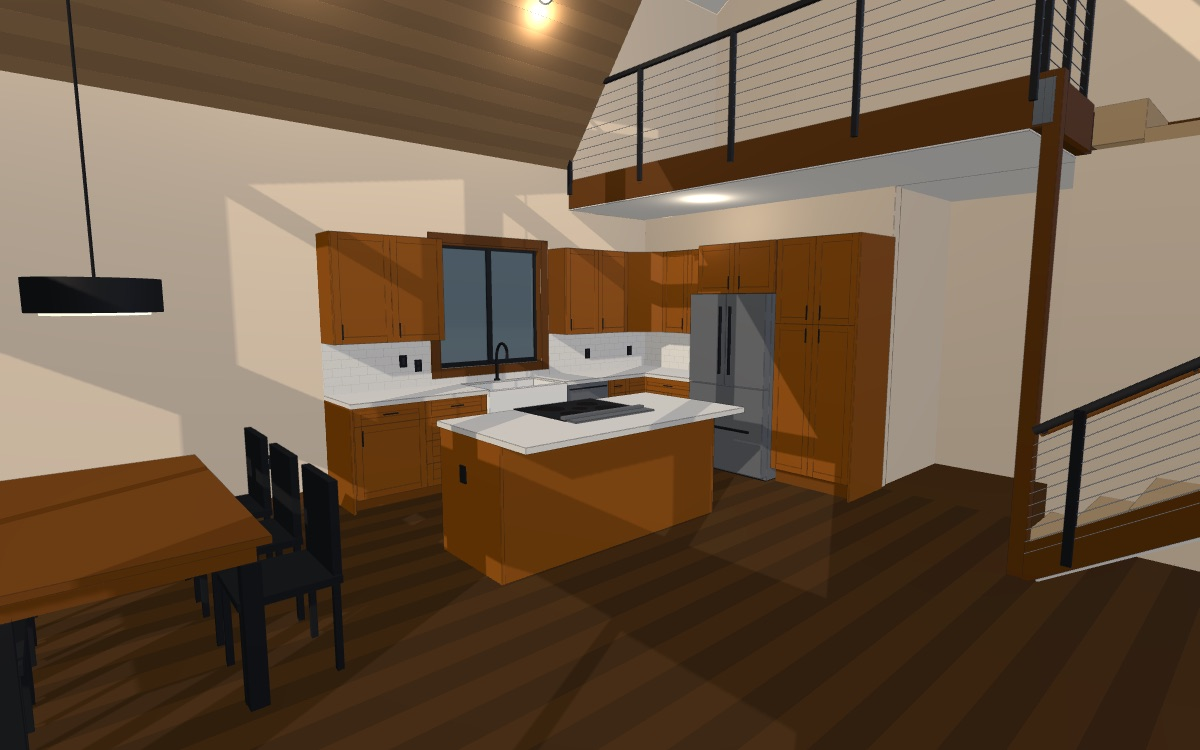
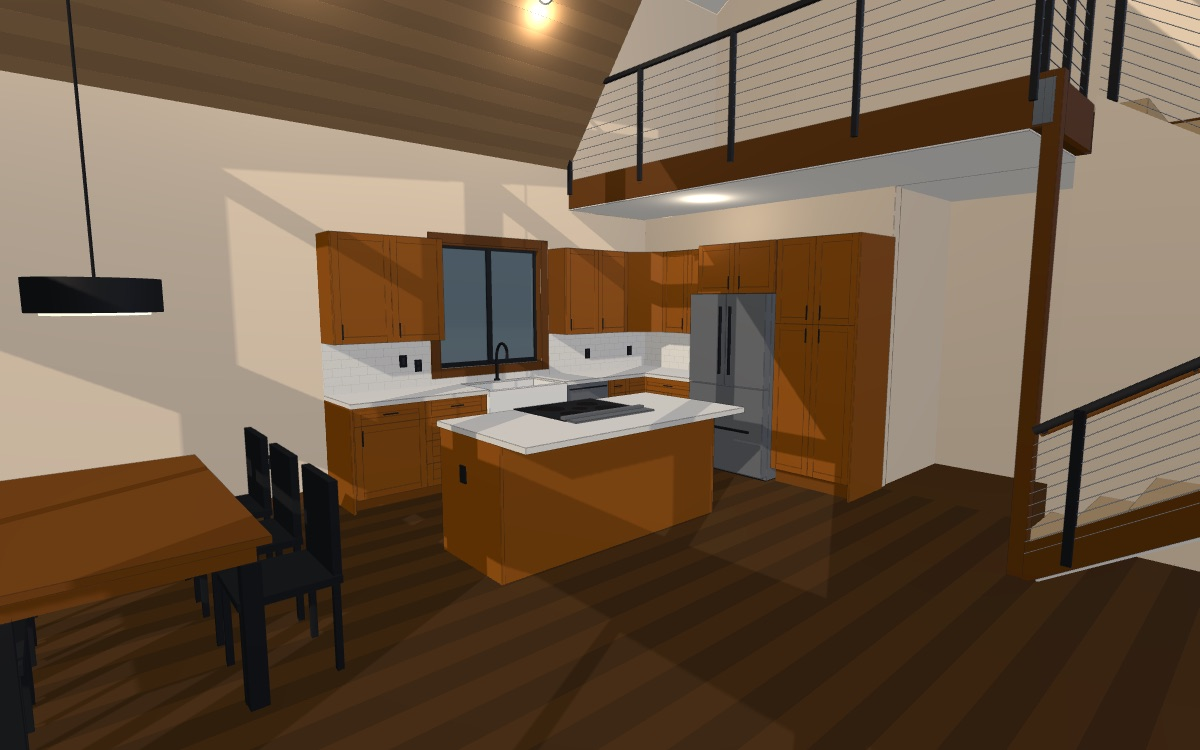
fix: window heads on one header, gable triangles full width, stair divider as built; gable-trim review toggle in the kitchen

diff --git a/kitchen.html b/kitchen.html
@@ -61,7 +61,7 @@
   <a class="panel" id="home" href="https://tredfield.github.io/138-tahoma-cabin/" title="Back to the list of drawings">&larr; All drawings</a>
   <div class="panel" id="header">
     <h1>Kitchen + great room (lower floor) &mdash; interior 3D</h1>
-    <div class="sub">Lower-floor <b>KITCHEN</b> on the east wall north of the guest bath, open to the double-height <b>LIVING ROOM</b>: 12'-10 3/4" counter run under window D and a 6'-8" x 3'-6" island with 3'-6" min aisles. Orange = field-verify or TBD. Design record: <code>wiki/construction/kitchen-and-great-room.md</code>. Not engineered &mdash; do not build from this. Drag to orbit &middot; scroll to zoom &middot; right-drag to pan &middot; <b>arrow keys (or WASD) walk</b>, PageUp/PageDown change eye height, Shift runs.</div>
+    <div class="sub">Lower-floor <b>KITCHEN</b> on the east wall north of the guest bath, open to the double-height <b>LIVING ROOM</b>: 12'-10 3/4" counter run under window D and a 6'-8" x 3'-6" island with 3'-6" min aisles. <b>Gable trim</b> compares two trim readings on the window wall. Orange = field-verify or TBD. Design record: <code>wiki/construction/kitchen-and-great-room.md</code>. Not engineered &mdash; do not build from this. Drag to orbit &middot; scroll to zoom &middot; right-drag to pan &middot; <b>arrow keys (or WASD) walk</b>, PageUp/PageDown change eye height, Shift runs.</div>
   </div>
   <div class="panel" id="legend">
     <h2>Legend</h2>
@@ -103,6 +103,11 @@
       <label><input type="checkbox" data-layer="dim"> Dimensions</label>
       <label><input type="checkbox" data-layer="caption"> Caption</label>
     </div>
+    <div class="row fold" id="variants">
+      <span class="lbl">Gable trim</span>
+      <label><input type="radio" name="gabletrim" data-layer="trimN1" checked> Per window, as drawn</label>
+      <label><input type="radio" name="gabletrim" data-layer="trimN2"> One board per gap</label>
+    </div>
     <div class="row" id="views">
       <span class="lbl">View</span>
       <button data-view="kitchen" class="on">Kitchen</button>
@@ -110,6 +115,7 @@
       <button data-view="sink">Sink wall</button>
       <button data-view="fridge">Fridge wall</button>
       <button data-view="north">Window wall</button>
+      <button data-view="northtrim">Gable trim</button>
       <button data-view="stove">Stove</button>
       <button data-view="lounge">From lounge</button>
       <button data-view="stair">Stair</button>
@@ -2096,7 +2102,7 @@ function tileZY(z1, z2, y1, y2, x1, x2, layer) {          // tile field on the s
 }
 tileXY(-48, D.WD_X1 - D.CAS_R, D.CTR_Y, D.UP_LO, D.E_GYP - .4, D.E_GYP, 'tile');
 tileXY(D.WD_X2 + D.CAS_R, D.ER_X2, D.CTR_Y, D.UP_LO, D.E_GYP - .4, D.E_GYP, 'tile');
-tileXY(D.WD_X1 - D.CAS_R, D.WD_X2 + D.CAS_R, D.CTR_Y, D.WD_Y1 - 1, D.E_GYP - .4, D.E_GYP, 'tile');
+tileXY(D.WD_X1 - D.CAS_R, D.WD_X2 + D.CAS_R, D.CTR_Y, D.WD_Y1 + .25 - D.CAS_W, D.E_GYP - .4, D.E_GYP, 'tile');   // stops on the sill casing's bottom edge (casing audit 2026-09-17: it used to run 2 1/4" up behind the casing)
 tileZY(D.SR_Z1, D.E_GYP - .4, D.CTR_Y, D.UP_LO, D.S_FACE, D.S_FACE + .4, 'tile');
 
 // ---- fridge: KitchenAid KRSC536RPS french-door counter-depth (35 1/2 x 69 1/4 x 28 3/8) -------------------------
@@ -2213,10 +2219,10 @@ slopedBoxZ(D.HALL_X1, 0, -150, -D.GLB_W / 2, yd, D.DORM_SLOPE, .75, M.gypC, 'lou
   // geometry on the exported `lounge` layer. What the sheets do settle is the arithmetic: 16 risers at
   // 7 1/2", 11" treads, a 3'-0" landing, 3'-0" minimum clear width, keynotes 0560 and 1040.
   //
-  // Geometry is the loft drawing's, transcribed rather than re-derived (same x and z, y + 120). The
-  // framed rail in the owner's field photographs of 2026-09-16 is the framer's TEMPORARY construction
-  // rail -- 2x4s nailed flat over the tread ends, a loose bottom plate and a scrap panel leaning on it
-  // -- so it says nothing about the finished guard, which stays the sheets' cable rail.
+  // Geometry is the loft drawing's, transcribed rather than re-derived (same x and z, y + 120). The framed
+  // low wall in the owner's field photographs of 2026-09-16 is NOT a temporary rail (that reading was wrong):
+  // it is the stair divider built as a stub wall for the metal guard, drawn below. The open side of flight 1
+  // toward the great room keeps the sheets' fascia-mounted 0560 cable rail; his photographs show no wall there.
   //
   // Interpretations, not sheet-settled: the 1 1/16" tread over a 3/4" closed riser with a 1" nosing, the
   // 10" outer stringer on the open side, and the drywall soffit under flight 1 (the alternative is an
@@ -2275,12 +2281,20 @@ slopedBoxZ(D.HALL_X1, 0, -150, -D.GLB_W / 2, yd, D.DORM_SLOPE, .75, M.gypC, 'lou
       bar(V(G, D.LAND_Y + RH - 1 - 3 * c, D.LAND_Z), V(G, D.LAND_Y + RH - 1 - 3 * c, -148), .1, M.steel, 'lounge');
     }
   }
-  // Stair south wall / utility east wall. It used to run the full z -150 .. -27 at full height, which put a
-  // wall straight through the landing: you turn from flight 1 to flight 2 across this line, so nothing can
-  // stand on it there. Full height alongside flight 1, and only up to the landing's underside beneath the
-  // landing itself, which is also how the loft drawing draws its stair divider (it stops at z -114).
-  box(D.UT_X1, D.UT_X2, 0, D.LNG_LO, D.LAND_Z, -27, M.gyp, 'lounge', false);
+  // Stair divider between the flights (utility east wall). FIELD CONDITION (owner photographs 2026-09-16, confirmed
+  // 2026-09-17): the framers built it as a LOW wall -- top plate two 2x4s, about 3" above the step edges of the
+  // upper flight (flight 2) -- for the metal guard to land on, in place of the fascia-mounted 0560 rail the sheets
+  // call. It used to be drawn 9'-0" tall along flight 1. Nothing stands on the landing line (you turn across it);
+  // under the landing it is a 50" wall as before. The 3" is the owner's estimate from his photographs: orange tag.
+  const yn2 = z => D.LAND_Y + (z - D.LAND_Z) * (D.RISE / D.TREAD);   // flight-2 nosing line: 60 at the landing, 120 at the well line
+  prismZY([[D.LAND_Z, 0], [-27, 0], [-27, yn2(-27) + 3], [D.LAND_Z, D.LAND_Y + 3]], D.UT_X1, D.UT_X2, M.gyp, 'lounge', [], false);
   box(D.UT_X1, D.UT_X2, 0, D.LAND_Y - 10, D.W_GYP, D.LAND_Z, M.gyp, 'lounge', false);
+  { // 0560 cable guard ON the divider: posts stand on the wall top, rail 36" over the flight-2 nosings
+    const DX = (D.UT_X1 + D.UT_X2) / 2, RH = 36;
+    for (const z of [-30, -58, -86, -112]) box(DX - 1, DX + 1, yn2(z) + 3, yn2(z) + RH, z - 1, z + 1, M.black, 'lounge');
+    bar(V(DX, yn2(-27) + RH - .5, -27), V(DX, yn2(D.LAND_Z) + RH - .5, D.LAND_Z), 1, M.black, 'lounge');
+    for (let k = 1; k <= 10; k++) bar(V(DX, yn2(-27) + RH - 1 - 3 * k, -27), V(DX, yn2(D.LAND_Z) + RH - 1 - 3 * k, D.LAND_Z), .1, M.steel, 'lounge');
+  }
   box(D.HALL_X1, D.UT_X1, 0, D.LNG_LO, -27, D.HALL_Z1, M.gyp, 'lounge', false);                   // utility wall along the hall
   box(D.HALL_X1, D.S_BACK, 0, D.LNG_LO, D.HALL_Z2, D.HALL_Z2 + 4.5, M.gyp, 'lounge', false);       // guest-bath wall along the hall; stops at the partition's south face -- run to S_FACE its end face shared the partition's room-side plane and the two z-fought in renders (phase 2 critic finding 1)
   // Boundary shell under the loft floor, added 2026-09-11 (phase 1b). Without it the kitchen and island
@@ -2318,25 +2332,37 @@ slopedBoxZ(D.HALL_X1, 0, -150, -D.GLB_W / 2, yd, D.DORM_SLOPE, .75, M.gypC, 'lou
   for (const s of [1, -1]) {
     J.push([s * 4, s * 50, 102, 158], [s * 54.5, s * 100.5, 102, 158], [s * 4, s * 50, 161, 217]);
   }
-  const K = [[[54.5, 161], [97, 161], [54.5, 219]], [[-54.5, 161], [-97, 161], [-54.5, 219]]];
-  const N = [[[4, 223], [46.5, 223], [4, 281]], [[-4, 223], [-46.5, 223], [-4, 281]]];
-  const XW = [[103.9, 140.4, 35.5, 84], [-140.4, -103.9, 35.5, 84]];   // AS BUILT windows flanking the sliders (owner tape 2026-09-02; rear-deck spec item 13)
+  // K and N triangles: the FULL WIDTH of the J below (46") with the hypotenuse on the roof slope (14.7/12), so the
+  // apex is 46 x 1.225 = 56.35 above the base. A03's north elevation draws them this way (K leg at 54.1, hypotenuse
+  // 1.22, outer corner over the J's edge) and the owner confirmed the field matches (2026-09-17). A04's schedule gives
+  // 3'-6 1/2" x 4'-10" for K, N, O and P alike, which is what this drawing carried until then; the sheets disagree
+  // with each other and the field settles it. One tape of a base and a leg is still owed.
+  const K = [[[54.5, 161], [100.5, 161], [54.5, 217.35]], [[-54.5, 161], [-100.5, 161], [-54.5, 217.35]]];
+  const N = [[[4, 223], [50, 223], [4, 279.35]], [[-4, 223], [-50, 223], [-4, 279.35]]];
+  // AS BUILT windows flanking the sliders: RO 36 1/2" x 48 1/2" (owner tape 2026-09-02); head on the SLIDER HEADER at
+  // 84 1/2" -- one continuous LVL over doors and windows per S4.3, owner confirmed 2026-09-17 -- so the sill is 36"
+  // (the tape read 35 1/2", inside its tolerance; a re-tape is owed and the drawing flags it).
+  const XW = [[103.9, 140.4, 36, 84.5], [-140.4, -103.9, 36, 84.5]];
   const norm = r => [Math.min(r[0], r[1]), Math.max(r[0], r[1]), r[2], r[3]];
   const holes = J.map(norm).map(r => rect(r[0], r[2], r[1], r[3])).concat(K, N, XW.map(r => rect(r[0], r[2], r[1], r[3])));
   prismZY(outline, D.N_GYP, D.N_OUT, M.gyp, 'wallN', holes);
   prismZY(outline, D.N_OUT, D.N_SIDE, M.siding, 'wallN', holes);
   const xf1 = 232.25, xf2 = 233.75, xg = 233, f = 1.75, c = D.CAS_W;
+  // Two readings of the gable-wall trim, chosen by the "Gable trim" radio (variant 'trimN1' / 'trimN2'; owner review
+  // round 2026-09-17). 'trimN1' is the per-window picture frame: every opening gets its own four 1x4 boards, which
+  // pile on top of each other where openings sit closer than 7" (3" between stacked J's, 4 1/2" beside them). 'trimN2'
+  // puts ONE board in each such gap, sized gap + 1/2" -- see the block after the doors. Only the selected reading exports.
+  const tb = (v, y1, y2, z1, z2) => { const m = box(D.N_GYP - .75, D.N_GYP, y1, y2, z1, z2, M.trimCasing, 'wallN'); m.userData.variant = v; return m; };
+  function casingN(z1, z2, y1, y2) {                           // square-cut butted picture frame (owner 2026-09-14), per window
+    tb('trimN1', y1 - c, y2 + c, z1 - c, z1); tb('trimN1', y1 - c, y2 + c, z2, z2 + c);   // legs, full height
+    tb('trimN1', y2, y2 + c, z1, z2); tb('trimN1', y1 - c, y1, z1, z2);                   // head and sill casing, butted between the legs
+  }
   function glazeZY(z1, z2, y1, y2, mullion = false) {          // black frame + glass + alder casing on the room side
     box(xf1, xf2, y1, y1 + f, z1, z2, M.black, 'wallN'); box(xf1, xf2, y2 - f, y2, z1, z2, M.black, 'wallN');
     box(xf1, xf2, y1, y2, z1, z1 + f, M.black, 'wallN'); box(xf1, xf2, y1, y2, z2 - f, z2, M.black, 'wallN');
     if (mullion) box(xf1, xf2, y1, y2, (z1 + z2) / 2 - 1, (z1 + z2) / 2 + 1, M.black, 'wallN');
     box(xg - .125, xg + .125, y1 + f, y2 - f, z1 + f, z2 - f, M.glass, 'wallN', false);
-    // square-cut butted picture frame, same detail as winXY (owner 2026-09-14): legs full height,
-    // head and sill butted between them, no stool and no apron.
-    box(D.N_GYP - .75, D.N_GYP, y1 - c, y2 + c, z1 - c, z1, M.trimCasing, 'wallN');   // legs, full height
-    box(D.N_GYP - .75, D.N_GYP, y1 - c, y2 + c, z2, z2 + c, M.trimCasing, 'wallN');
-    box(D.N_GYP - .75, D.N_GYP, y2, y2 + c, z1, z2, M.trimCasing, 'wallN');           // head, butted between the legs
-    box(D.N_GYP - .75, D.N_GYP, y1 - c, y1, z1, z2, M.trimCasing, 'wallN');           // sill casing, butted between the legs
+    casingN(z1, z2, y1, y2);
   }
   for (const r of J.map(norm)) glazeZY(r[0] + .25, r[1] - .25, r[2] + .25, r[3] - .25, false);
   for (const r of XW) glazeZY(r[0] + .25, r[1] - .25, r[2] + .25, r[3] - .25, false);           // unit type not on record
@@ -2362,24 +2388,54 @@ slopedBoxZ(D.HALL_X1, 0, -150, -D.GLB_W / 2, yd, D.DORM_SLOPE, .75, M.gypC, 'lou
   }
   function glazeTri(p) {
     prismZY(p, xg - .125, xg + .125, M.glass, 'wallN', [], false);
-    prismZY(triRing(p, c), D.N_GYP - .8, D.N_GYP, M.trimCasing, 'wallN', [p]);
+    prismZY(triRing(p, c), D.N_GYP - .8, D.N_GYP, M.trimCasing, 'wallN', [p]).userData.variant = 'trimN1';
     for (let i = 0; i < 3; i++) { const a = p[i], b = p[(i + 1) % 3]; bar(V(xg, a[1], a[0]), V(xg, b[1], b[0]), .9, M.black, 'wallN'); }
   }
   K.forEach(glazeTri); N.forEach(glazeTri);
   // doors 9 / 10: 96 x 84 sliders, one fixed + one sliding panel each, black frames
+  // The door frame sits 1/4" inside its RO like every window frame here, and the casing sits on the FRAME line, so
+  // the slider head casing and the as-built window head casing beside it are one line (owner 2026-09-17: the field
+  // has the heads level on one header; the drawing had the door casing on the RO and the window casing 1/4" lower).
   for (const s of [-1, 1]) {
-    const z1 = Math.min(s * D.DR_Z, s * D.DR_Z2), z2 = Math.max(s * D.DR_Z, s * D.DR_Z2), zm = (z1 + z2) / 2;
-    box(xf1, xf2, 0, .5, z1, z2, M.black, 'wallN'); box(xf1, xf2, D.DR_Y2 - f, D.DR_Y2, z1, z2, M.black, 'wallN');   // track / head
-    box(xf1, xf2, 0, D.DR_Y2, z1, z1 + f, M.black, 'wallN'); box(xf1, xf2, 0, D.DR_Y2, z2 - f, z2, M.black, 'wallN');
+    const z1 = Math.min(s * D.DR_Z, s * D.DR_Z2) + .25, z2 = Math.max(s * D.DR_Z, s * D.DR_Z2) - .25, zm = (z1 + z2) / 2, yT = D.DR_Y2 - .25;
+    box(xf1, xf2, 0, .5, z1, z2, M.black, 'wallN'); box(xf1, xf2, yT - f, yT, z1, z2, M.black, 'wallN');   // track / head
+    box(xf1, xf2, 0, yT, z1, z1 + f, M.black, 'wallN'); box(xf1, xf2, 0, yT, z2 - f, z2, M.black, 'wallN');
     for (const [pa, pb, xo] of [[z1 + f, zm + 1, 1.2], [zm - 1, z2 - f, -1.2]]) {                 // fixed panel out, slider in
       const xa = xf1 + xo, xb = xf2 + xo, pf = 2.5;
-      box(xa, xb, .5, .5 + pf, pa, pb, M.black, 'wallN'); box(xa, xb, D.DR_Y2 - f - pf, D.DR_Y2 - f, pa, pb, M.black, 'wallN');
-      box(xa, xb, .5, D.DR_Y2 - f, pa, pa + pf, M.black, 'wallN'); box(xa, xb, .5, D.DR_Y2 - f, pb - pf, pb, M.black, 'wallN');
-      box(xg + xo - .125, xg + xo + .125, .5 + pf, D.DR_Y2 - f - pf, pa + pf, pb - pf, M.glass, 'wallN', false);
+      box(xa, xb, .5, .5 + pf, pa, pb, M.black, 'wallN'); box(xa, xb, yT - f - pf, yT - f, pa, pb, M.black, 'wallN');
+      box(xa, xb, .5, yT - f, pa, pa + pf, M.black, 'wallN'); box(xa, xb, .5, yT - f, pb - pf, pb, M.black, 'wallN');
+      box(xg + xo - .125, xg + xo + .125, .5 + pf, yT - f - pf, pa + pf, pb - pf, M.glass, 'wallN', false);
     }
     box(D.N_GYP - 1.6, D.N_GYP - .8, 34, 44, zm - 1.4 * s - .4, zm - 1.4 * s + .4, M.black, 'wallN', false);   // handle
-    box(D.N_GYP - .75, D.N_GYP, D.DR_Y2, D.DR_Y2 + c, z1 - c, z2 + c, M.trimCasing, 'wallN');                        // casing
-    box(D.N_GYP - .75, D.N_GYP, 0, D.DR_Y2, z1 - c, z1, M.trimCasing, 'wallN'); box(D.N_GYP - .75, D.N_GYP, 0, D.DR_Y2, z2, z2 + c, M.trimCasing, 'wallN');
+    tb('trimN1', yT, yT + c, z1 - c, z2 + c);                                                                 // head casing over the legs
+    tb('trimN1', 0, yT, z1 - c, z1); tb('trimN1', 0, yT, z2, z2 + c);                                        // legs
+  }
+  // ---- Gable trim, variant 'trimN2': ONE BOARD PER GAP (the alternative reading for the owner's review) --------
+  // Where two openings sit closer than two 1x4s, one board covers the gap and laps each frame 1/4", so its width is
+  // the gap + 1/2": 3" between stacked J's -> 1x4; 4 1/2" beside them -> 5 1/2" (1x6); 3.9" slider-to-window -> 4 7/8"
+  // (1x6 rip); 6" upper J to N -> 7 1/4" (1x8); the 8 1/2" centre strip -> 9" (1x10 rip). Everything else is 1x4.
+  {
+    const v = 'trimN2', c4 = c, cb = 4.5;                                    // 3 1/2" stock; centre board z -4.5..4.5
+    const jR = 49.75, oL = 54.75, oR = 100.25, dR = 99.75, wL = 104.15, wR = 140.15;   // frame lines (RO +/- 1/4")
+    const yA1 = 84.25, yB1 = 102.25, yB0 = yB1 - c4, yC0 = 157.75, yC1 = 161.25, yD0 = 216.25, yD1 = 223.5;
+    tb(v, 0, 284.3, -cb, cb);                                                // centre board, floor to the top of the N boards
+    for (const s of [1, -1]) {
+      const Z = (a, b) => [Math.min(s * a, s * b), Math.max(s * a, s * b)];
+      tb(v, yA1, yA1 + c4, ...Z(cb, wR + c4));                               // band A: slider head + window head, 84 1/4" .. 87 3/4"
+      tb(v, 0, yA1, ...Z(dR - .25, wL + .25));                               // slider / as-built window shared board, 4 7/8"
+      tb(v, 36.25 - c4, yA1, ...Z(wR, wR + c4));                             // as-built window outer leg
+      tb(v, 36.25 - c4, 36.25, ...Z(wL + .25, wR));                          // as-built window sill casing
+      tb(v, yB0, yB1, ...Z(cb, oR + c4));                                    // band B: lower J sill casing
+      tb(v, yB0, yD0, ...Z(jR - .25, oL + .25));                             // inner / outer J shared vertical, 5 1/2" (1x6)
+      tb(v, yB0, yC1, ...Z(oR, oR + c4));                                    // outer J outer leg
+      tb(v, yC0, yC1, ...Z(cb, oR + c4));                                    // band C: lower J head / upper J sill / K base
+      tb(v, yD0, yD1, ...Z(cb, oL + .25));                                   // band D: upper J head / N base, 7 1/4" (1x8)
+      const kb = [[100.3, yC1], [103.75, yC1], [103.75, 162.5], [55, 222.3], [55, 216.7]].map(q => [s * q[0], q[1]]);   // K hypotenuse board
+      const nb = [[49.6, yD1], [54.1, yD1], [cb, 284.3], [cb, 278.7]].map(q => [s * q[0], q[1]]);                       // N hypotenuse board
+      if (s < 0) { kb.reverse(); nb.reverse(); }
+      prismZY(kb, D.N_GYP - .75, D.N_GYP, M.trimCasing, 'wallN').userData.variant = v;
+      prismZY(nb, D.N_GYP - .75, D.N_GYP, M.trimCasing, 'wallN').userData.variant = v;
+    }
   }
   // Base: 4" x 1/2" (owner 2026-09-16 -- he has 4" at home and read 3 1/2" as too narrow), broken
   // around both slider openings instead of running straight across them as it used to.
@@ -2580,7 +2636,17 @@ for (const cx of D.CAN_X) for (const cz of D.CAN_Z) { const pl = new THREE.Point
   tagAt(['ROOF', '1x6 T&G on 2X14 DF#2 @ 24" o.c., ~15:12', '5 1/2" x 24" GLB ridge, T.O. rafter 27\'-6"'], 205, RG, 0, 'y-', TF);
   tagAt(['LIGHTING ckt 4', '12 recessed cans, 3 x 4 on the T&G', 'fan Hunter Gilrock 52", downrod TBD'], 145, RG, 0, 'y-', TF);
   tagAt(['DOORS 9 / 10 sliding, black', '96" x 84", RO 8\'-0 1/2" x 7\'-0 1/2"', 'glazing J / K / N above per A03'], NW, 95, 0, 'x-', TF);
-  tagAt(['WINDOW as built, one each side', 'RO 36 1/2" x 48 1/2", sill 35 1/2"', 'fixed, black frame'], NW, 95, 122, 'x-', TF);
+  tagAt(['WINDOW as built, one each side', 'RO 36 1/2" x 48 1/2", sill 36"', 'head on the slider header, fixed, black frame'], NW, 95, 122, 'x-', TF);
+  tagAt(['FIELD VERIFY WINDOW SILL', 'drawn 36", tape read 35 1/2"'], NW, 26, -122, 'x-', FTF);
+  tagAt(['FIELD VERIFY STAIR DIVIDER', 'top 3" over the flight-2 nosings', '0560 cable rail on top, 36"'], D.UT_X2 + 0.15, 78, -72, 'x', FTF);
+  // gable trim, west half (the Gable trim view): each board's stock, per reading
+  tagAt(['CASING', '1x4 = 3 1/2" x 3/4"', 'legs, head, sill casing'], NW, 93, -122, 'x-', TF);
+  tagAt(['HEAD CASING', '84 1/4" to 87 3/4", sliders and windows'], NW, 93, -52, 'x-', T2);
+  tagAt(['TRIM AS DRAWN', 'two 1x4 in each 3" and 4 1/2" gap'], NW, 130, -52, 'x-', FTF).userData.variant = 'trimN1';
+  tagAt(['SHARED BOARD 1x6', '5 1/2" over the 4 1/2" gap'], NW, 130, -52, 'x-', T2).userData.variant = 'trimN2';
+  tagAt(['BAND 1x8', '7 1/4" over the 6" gap'], NW, 220, -27, 'x-', T2).userData.variant = 'trimN2';
+  tagAt(['CENTRE BOARD', '9" (1x10 rip) over the 8 1/2" strip'], NW, 45, 0, 'x-', T2).userData.variant = 'trimN2';
+  tagAt(['SHARED BOARD', '4 7/8" (1x6 rip) over the 3.9" gap'], NW, 45, -102, 'x-', T2).userData.variant = 'trimN2';
   tagAt(['FIELD VERIFY WINDOWS A1 / A2 count + position', '4\'-0" x 4\'-6" fixed, sill 3\'-0", RO + 1/2"'], 40.75, 99, WW, 'z', FTF);
   tagAt(['WOOD STOVE Drolet Columbia II', '25 5/8" w x 25 1/8" d x 29" h, 6" flue', 'corner pad 4\' x 4\' x 8" stone, 24" chamfer'], 204, 66, WW, 'z', T);
   tagAt(['VERIFY CLEARANCES ON THE STOVE LABEL', 'pad 16" past the door, flue between rafters'], 204, 52, WW, 'z', FT);
@@ -2674,6 +2740,7 @@ const VIEWS = {
   sink:    { pos: [40, 62, 62], tgt: [40, 48, 150], fov: 68 },
   fridge:  { pos: [70, 62, 78], tgt: [-48, 44, 72], fov: 62 },
   north:   { pos: [20, 66, 95], tgt: [230, 130, 0], fov: 70 },
+  northtrim: { pos: [40, 125, -72], tgt: [230, 150, -72], fov: 76 },   // gable trim review: the west half of the window wall, square on
   stove:   { pos: [130, 60, -20], tgt: [200, 26, -132], fov: 58 },
   lounge:  { pos: [-50, 195, -50], tgt: [70, 30, 95], fov: 62 },
   stair:   { pos: [52, 64, 40], tgt: [-34, 30, -100], fov: 66 },   // from the great room down the flight to the landing (owner 2026-09-16)
@@ -2744,7 +2811,7 @@ async function exportGLB() {
     const strip = o => { for (const ch of [...o.children]) { if (ch.isLine || ch.isSprite) o.remove(ch); else strip(ch); } };
     let meshes = 0;
     for (const p of parts) {                                 // layer decides, not visibility: labels are hidden but so is anything the user toggled off
-      if (p.isSprite || skip.has(p.userData.layer)) continue;
+      if (p.isSprite || skip.has(p.userData.layer) || (p.userData.variant && !p.visible)) continue;   // a variant its radio has not selected is not the house
       const c = p.clone(true);
       strip(c);                                              // drop the addEdges() outlines and any sprite children
       root.add(c);

diff --git a/loft.html b/loft.html
@@ -1613,7 +1613,7 @@ const D = {
     doors: [[-100, -4], [4, 100]], doorY: [-120, -35.5],
     lowerJ: [[-100.5, -54.5], [-50, -4], [4, 50], [54.5, 100.5]], lowerJY: [-18, 38],
     upperJ: [[-50, -4], [4, 50]], upperJY: [41, 97],
-    flank: [[-140.4, -103.9], [103.9, 140.4]], flankY: [-84.5, -36],
+    flank: [[-140.4, -103.9], [103.9, 140.4]], flankY: [-84, -35.5],
   },
   WIN_D: [15.5, 64, -78.25, -29.75], WIN_A1: [16.5, 65, -84.25, -29.75], WIN_A2: [124, 172.5, -84.25, -29.75],
 };
@@ -2005,8 +2005,8 @@ for (const [cx, cz] of D.CANS) { const pl = new THREE.PointLight(0xfff1dc, 0.55,
   cables(V(DX, D.RAIL_H - 1, -25), V(D.RAIL_X, D.RAIL_H - 1, -25));
   const yn2 = z => D.LANDING_Y + (z - D.LANDING_Z2) * (D.RISE / D.TREAD);       // flight-2 nosing line (0 at z = -26)
   const yn1 = z => D.LOWER + (D.WELL_Z - z) * (D.RISE / D.TREAD);               // flight-1 nosing line (-60 at the landing)
-  prismZY([[D.LANDING_Z2, D.LOWER], [D.WELL_Z, D.LOWER], [D.WELL_Z, -1], [D.LANDING_Z2, D.LANDING_Y - 1]], D.DIV_X1, D.DIV_X2, M.gyp, 'stair');
-  for (const z of [-26, -55.3, -84.7, -114]) post(DX, yn2(z) - 1, yn2(z) + D.RAIL_H, z);
+  prismZY([[D.LANDING_Z2, D.LOWER], [D.WELL_Z, D.LOWER], [D.WELL_Z, yn2(D.WELL_Z) + 3], [D.LANDING_Z2, D.LANDING_Y + 3]], D.DIV_X1, D.DIV_X2, M.gyp, 'stair');
+  for (const z of [-26, -55.3, -84.7, -114]) post(DX, yn2(z) + 3, yn2(z) + D.RAIL_H, z);
   bar(V(DX, yn2(-26) + D.RAIL_H - 0.5, -26), V(DX, yn2(-114) + D.RAIL_H - 0.5, -114), 1, M.black, 'rail');
   cables(V(DX, yn2(-26) + D.RAIL_H - 1, -26), V(DX, yn2(-114) + D.RAIL_H - 1, -114));
   const G = D.GUARD_X;
@@ -2072,7 +2072,7 @@ for (const [cx, cz] of D.CANS) { const pl = new THREE.PointLight(0xfff1dc, 0.55,
   for (const [a, b] of O.lowerJ) holes.push(rect(a, O.lowerJY[0], b, O.lowerJY[1]));
   for (const [a, b] of O.upperJ) holes.push(rect(a, O.upperJY[0], b, O.upperJY[1]));
   for (const [a, b] of O.flank) holes.push(rect(a, O.flankY[0], b, O.flankY[1]));
-  for (const s of [1, -1]) { holes.push([[s * 54.5, 41], [s * 97, 41], [s * 54.5, 99]]); holes.push([[s * 4, 103], [s * 46.5, 103], [s * 4, 161]]); }
+  for (const s of [1, -1]) { holes.push([[s * 54.5, 41], [s * 100.5, 41], [s * 54.5, 97.35]]); holes.push([[s * 4, 103], [s * 50, 103], [s * 4, 159.35]]); }
   prismZY([[-150, D.LOWER], [150, D.LOWER], [150, D.GR_WALL_TOP], [0, D.GR_Y0], [-150, D.GR_WALL_TOP]], 230, D.G4, M.ghost, 'context', holes);
   box(229, D.G4, D.LVL_Y1, D.LVL_Y2, -150, 150, M.ghost, 'context');
   const [d1, d2, d3, d4] = D.WIN_D, [a1, a2, a3, a4] = D.WIN_A1, [b1, b2, b3, b4] = D.WIN_A2;
@@ -2104,6 +2104,7 @@ for (const [cx, cz] of D.CANS) { const pl = new THREE.PointLight(0xfff1dc, 0.55,
   tagAt(['WINDOW E 5\'-0" x 3\'-0" FIXED', 'RO 5\'-0 1/2" x 3\'-0 1/2", sill 36"'], -63, 82, EW, 'z-', T);
   tagAt(['SILL 36" AS DRAWN: FIELD VERIFY'], -63, 26, EW, 'z-', { ...FLAGT, fs: 44 });
   tagAt(['STAIR 3\'-0" MIN CLEAR, SWITCHBACK', '16 R @ 7 1/2", 11" treads', 'handrail 1040 @ 34", 0560 rail on divider'], D.DIV_X2 + 0.15, -62, -62, 'x', T);
+  tagAt(['FIELD VERIFY STAIR DIVIDER', 'top 3" over the flight-2 nosings, rail on top'], D.DIV_X2 + 0.15, -40, -70, 'x', { ...FLAGT, fs: 44 });
   // electrical + HVAC
   tagAt(['(4) LED CANS ckt 20', 'switched at door 15'], -27, yc(31) - 3, 31, 'y-', T);
   tagAt(['FLOOR RECEP (E01)'], -13, FL, 44, 'y', T);

diff --git a/exterior.html b/exterior.html
@@ -2009,9 +2009,9 @@ const OPEN = {                                     // rough openings in wall-loc
   N: {   // u = -x; the wall is symmetric, so the u lists equal the world-x lists (door 9 is the west one: x -100..-4 -> u 4..100)
     door9: rect(4, 100, 0, 84.5), door10: rect(-100, -4, 0, 84.5),
     J: [rect(-50, -4, 102, 158), rect(4, 50, 102, 158), rect(-100.5, -54.5, 102, 158), rect(54.5, 100.5, 102, 158), rect(-50, -4, 161, 217), rect(4, 50, 161, 217)],
-    K: [[[-54.5, 161], [-54.5, 219], [-97, 161]], [[54.5, 161], [97, 161], [54.5, 219]]],
-    Nw: [[[-4, 223], [-4, 281], [-46.5, 223]], [[4, 223], [46.5, 223], [4, 281]]],
-    asb: [rect(-140.4, -103.9, 35.5, 84), rect(103.9, 140.4, 35.5, 84)],      // as built, owner tape 2026-09-02
+    K: [[[-54.5, 161], [-54.5, 217.35], [-100.5, 161]], [[54.5, 161], [100.5, 161], [54.5, 217.35]]],   // full width of the J below, sloped leg at the 14.7:12 roof pitch (owner 2026-09-17)
+    Nw: [[[-4, 223], [-4, 279.35], [-50, 223]], [[4, 223], [50, 223], [4, 279.35]]],                      // same rule over the upper J (owner 2026-09-17)
+    asb: [rect(-140.4, -103.9, 36, 84.5), rect(103.9, 140.4, 36, 84.5)],      // as built, owner tape 2026-09-02; heads on the slider header at 84.5 (owner 2026-09-17)
   },
   E: {   // u = -z
     C: rect(205.75, 254.25, 60, 72.5), Dw: rect(331.5, 380, 41.75, 90.25), E: rect(222.5, 283, 156, 192.5),
